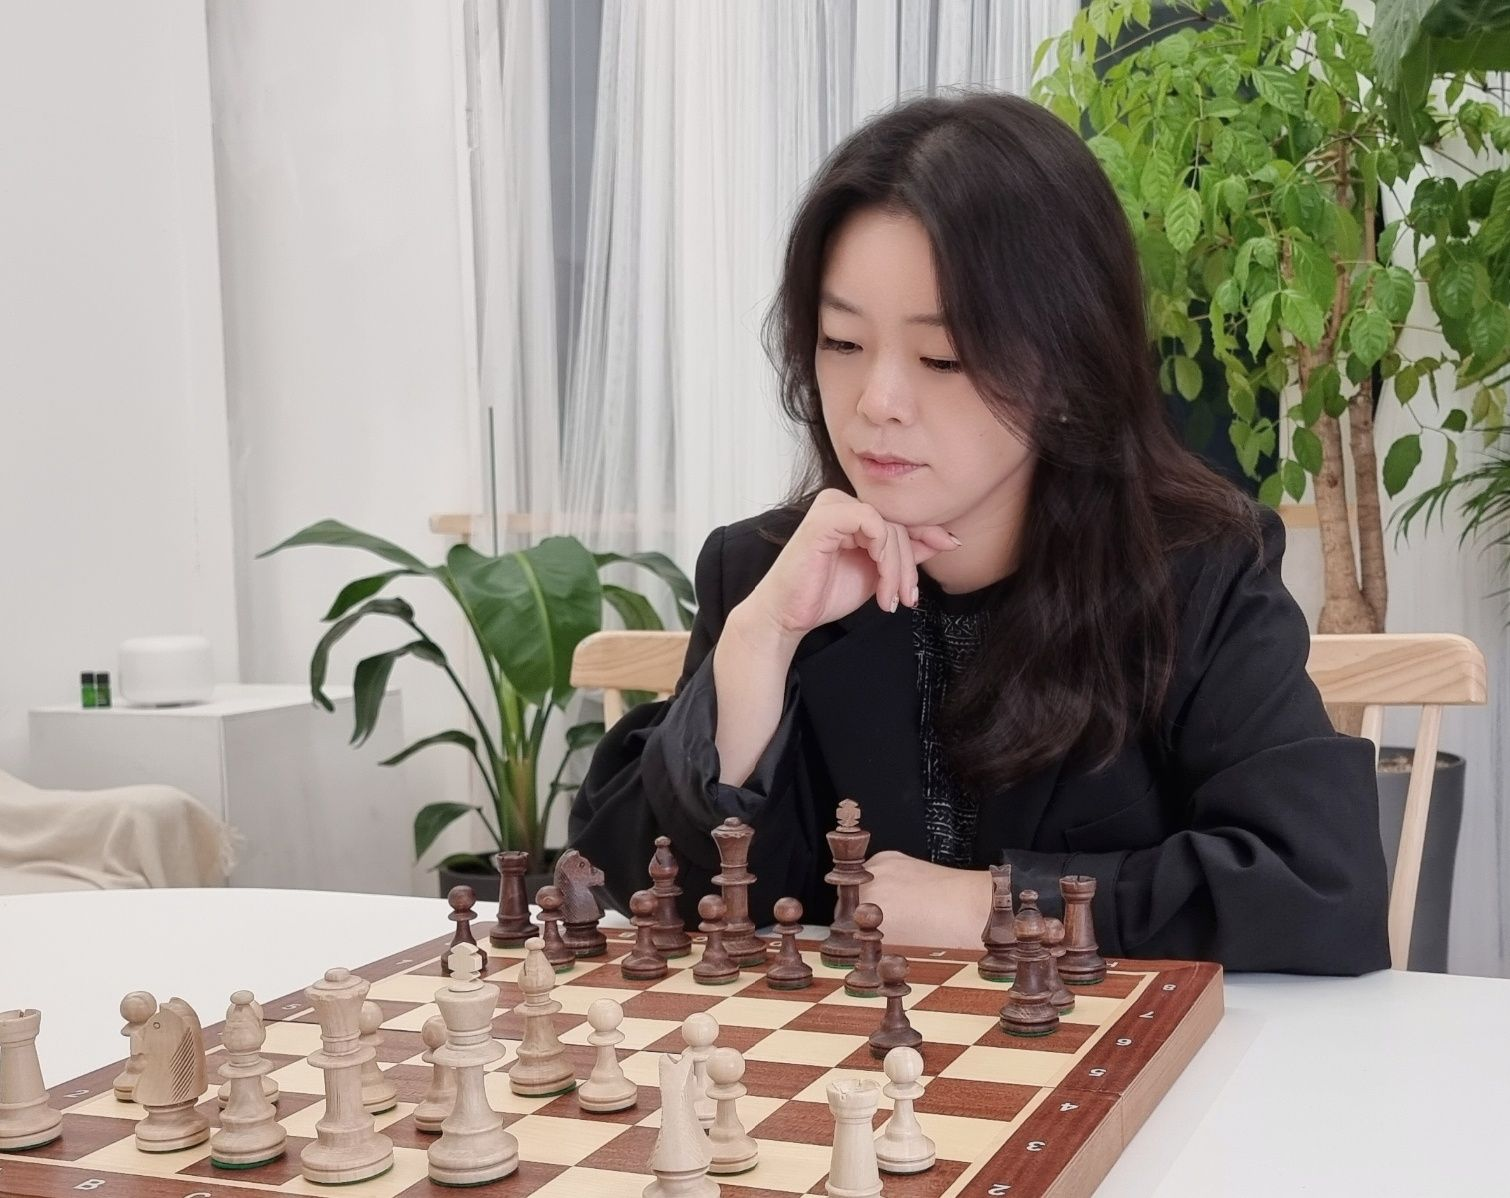
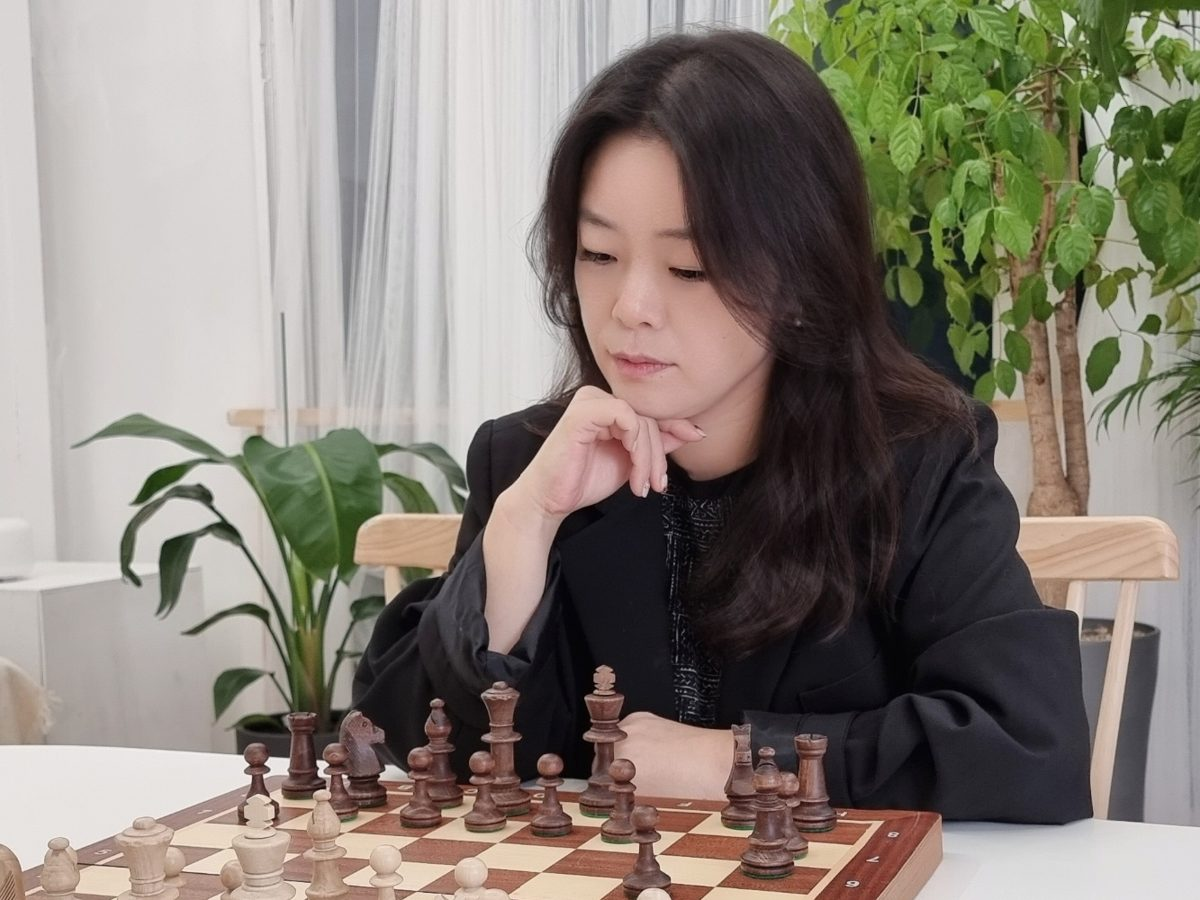
수업 설명 3곳 수정, 수업료 표 기타로 묶기, 원장 사진 크롭 조정
- 체스 마스터·마인드스포츠올림피아드·1:1 퍼스널 클래스 설명 변경
- 수업료가 정해지지 않은 과정을 '기타 · 상담 시 안내' 한 줄로
- 이경학 원장 소개 사진을 인물 위주로 새로 크롭(Questions 구간 넓은 사진은 그대로), 이원주 원장 사진은 체스판이 보이게 크롭

diff --git a/index.html b/index.html
@@ -200,10 +200,10 @@
       <article class="class-card"><p class="class-tag">Kids Brain · 6–7세</p><h3>키즈 브레인</h3><p data-edit="class.kids" data-label="키즈 브레인 설명">체스와 보드게임으로 규칙을 익히고 기다리는 연습을 합니다.</p></article>
       <article class="class-card"><p class="class-tag">Chess Basic · 입문</p><h3>체스 베이직</h3><p data-edit="class.basic" data-label="체스 베이직 설명">유아와 초등학생이 체스를 처음 배우는 입문반입니다. 기본 규칙과 전술을 익힙니다.</p></article>
       <article class="class-card"><p class="class-tag">Chess Step Up</p><h3>체스 스텝업</h3><p data-edit="class.stepup" data-label="체스 스텝업 설명">기본기를 익힌 아이가 한 단계 더 깊이 배우는 심화반입니다.</p></article>
-      <article class="class-card"><p class="class-tag">Chess Master</p><h3>체스 마스터</h3><p data-edit="class.master" data-label="체스 마스터 설명">선수반입니다. 이경학 원장이 전담하고, 센터 수업에 온라인 수업을 더합니다.</p></article>
+      <article class="class-card"><p class="class-tag">Chess Master</p><h3>체스 마스터</h3><p data-edit="class.master" data-label="체스 마스터 설명">레이팅 획득 및 상위권 대회에 도전하기 위한 실력 향상을 위한 수업입니다.</p></article>
       <article class="class-card"><p class="class-tag">Online</p><h3>체스 온라인 클래스</h3><p data-edit="class.online" data-label="체스 온라인 클래스 설명">거리가 멀어도 집에서 듣는 소그룹 온라인 수업입니다.</p></article>
-      <article class="class-card"><p class="class-tag">Personal · 1:1</p><h3>1:1 퍼스널 클래스</h3><p data-edit="class.personal" data-label="1:1 퍼스널 클래스 설명">중고등학생도 시작할 수 있는 1:1 수업입니다. 온라인으로도 들을 수 있습니다.</p></article>
-      <article class="class-card"><p class="class-tag">Olympiad</p><h3>마인드스포츠올림피아드</h3><p data-edit="class.olympiad" data-label="마인드스포츠올림피아드 설명">초등 1학년 이상이 따로 듣는 대회 준비 수업입니다.</p></article>
+      <article class="class-card"><p class="class-tag">Personal · 1:1</p><h3>1:1 퍼스널 클래스</h3><p data-edit="class.personal" data-label="1:1 퍼스널 클래스 설명">개인 실력 향상과 원거리 학생들을 위한 온&#8288;·&#8288;오프라인 수업입니다.</p></article>
+      <article class="class-card"><p class="class-tag">Olympiad</p><h3>마인드스포츠올림피아드</h3><p data-edit="class.olympiad" data-label="마인드스포츠올림피아드 설명">사고력발달을 위한 전략 게임과 멘사 게임을 배울 수 있는 수업입니다.</p></article>
       <article class="class-card"><p class="class-tag">Others</p><h3>기타 과정</h3><ul class="profile-list"><li>마인드 스포츠</li><li>메모리 스포츠</li><li>성인반</li></ul></article>
       <a class="class-card trial-card" href="https://map.naver.com/p/entry/place/1477576299?placePath=%2Fticket" target="_blank" rel="noopener"><p class="class-tag">Free Trial</p><span class="trial-card-row"><span class="trial-card-text">체험수업 신청</span><span class="icon-btn" aria-hidden="true"><svg class="icon" viewBox="0 0 24 24" fill="none" stroke="currentColor" stroke-width="1.8" stroke-linecap="round" stroke-linejoin="round"><path d="M7 17 17 7M9 7h8v8"/></svg></span></span><span class="trial-card-sub">첫 체험수업 무료 · 50분 · 네이버 예약</span></a>
     </div>
@@ -217,8 +217,7 @@
         <tr><td>체스 스텝업</td><td>심화 · 주 1–2회 120분</td><td data-edit="fee.stepup" data-label="체스 스텝업 수업료">180,000원</td></tr>
         <tr><td>체스 마스터</td><td>선수반 · 주 210분</td><td data-edit="fee.master" data-label="체스 마스터 수업료">250,000원</td></tr>
         <tr><td>마인드스포츠올림피아드</td><td>주 1회 60분</td><td data-edit="fee.olympiad" data-label="마인드스포츠올림피아드 수업료">100,000원</td></tr>
-        <tr><td>체스 온라인 클래스</td><td>소그룹 60분</td><td data-edit="fee.online" data-label="체스 온라인 클래스 수업료">상담 시 안내</td></tr>
-        <tr><td>1:1 퍼스널 클래스</td><td>온라인 가능</td><td data-edit="fee.personal" data-label="1:1 퍼스널 클래스 수업료">상담 시 안내</td></tr>
+        <tr><td>기타</td><td>체스&nbsp;온라인&nbsp;클래스 · 1:1&nbsp;퍼스널&nbsp;클래스 · 마인드&nbsp;스포츠 · 메모리&nbsp;스포츠 · 성인반</td><td>상담&nbsp;시&nbsp;안내</td></tr>
       </tbody>
     </table></div>
     <p class="note">자세한 내용은 상담 시 안내해 드립니다.</p>
@@ -233,7 +232,7 @@
     </div>
     <div class="class-grid">
       <article class="class-card"><div class="profile-photo" data-photo="director.wonju" data-label="이원주 원장 사진"><img src="images/photos/director-wonju.jpg" alt="체스판 앞에 앉은 이원주 원장" loading="lazy"></div><p class="class-tag">원장 · 사고력 체스 멘토</p><h3>이원주</h3><ul class="profile-list"><li>세계체스연맹 공인 트레이너(FIDE National Instructor)</li><li>교육 경력 17년, 2009년 진로진학 컨설팅으로 시작</li><li>2017년부터 체스·마인드스포츠 교육</li><li>온·오프라인 누적 수강생 1만 명 이상</li><li>부천시체스경기연맹 회장</li><li>부모교육·외부 기관 출강</li><li>체스 아비터(심판), 대회 기획·운영 다수</li></ul></article>
-      <article class="class-card"><div class="profile-photo" data-photo="director.kyunghak" data-label="이경학 원장 사진"><img src="images/photos/director-kyunghak.jpg" alt="대회장에서 학생과 노트북으로 경기를 분석하는 이경학 원장" loading="lazy"></div><p class="class-tag">원장 · 선수반 전담</p><h3>이경학</h3><ul class="profile-list"><li>세계체스연맹 공인 트레이너(FIDE Developmental Instructor)</li><li>경기도체스경기연맹 회장</li><li>대한체스경기연맹 지도자관리위원장</li><li>체스 아비터(대회 페어링 심판)</li><li>대회 기획·운영 다수</li><li>선수반(체스 마스터) 전담 지도</li><li>초등학교 방과후 체스 지도</li></ul></article>
+      <article class="class-card"><div class="profile-photo" data-photo="director.kyunghak" data-label="이경학 원장 사진"><img src="images/photos/director-kyunghak-profile.jpg" alt="대회장에서 경기를 분석하는 이경학 원장" loading="lazy"></div><p class="class-tag">원장 · 선수반 전담</p><h3>이경학</h3><ul class="profile-list"><li>세계체스연맹 공인 트레이너(FIDE Developmental Instructor)</li><li>경기도체스경기연맹 회장</li><li>대한체스경기연맹 지도자관리위원장</li><li>체스 아비터(대회 페어링 심판)</li><li>대회 기획·운영 다수</li><li>선수반(체스 마스터) 전담 지도</li><li>초등학교 방과후 체스 지도</li></ul></article>
     </div>
   </div>
 </section>
